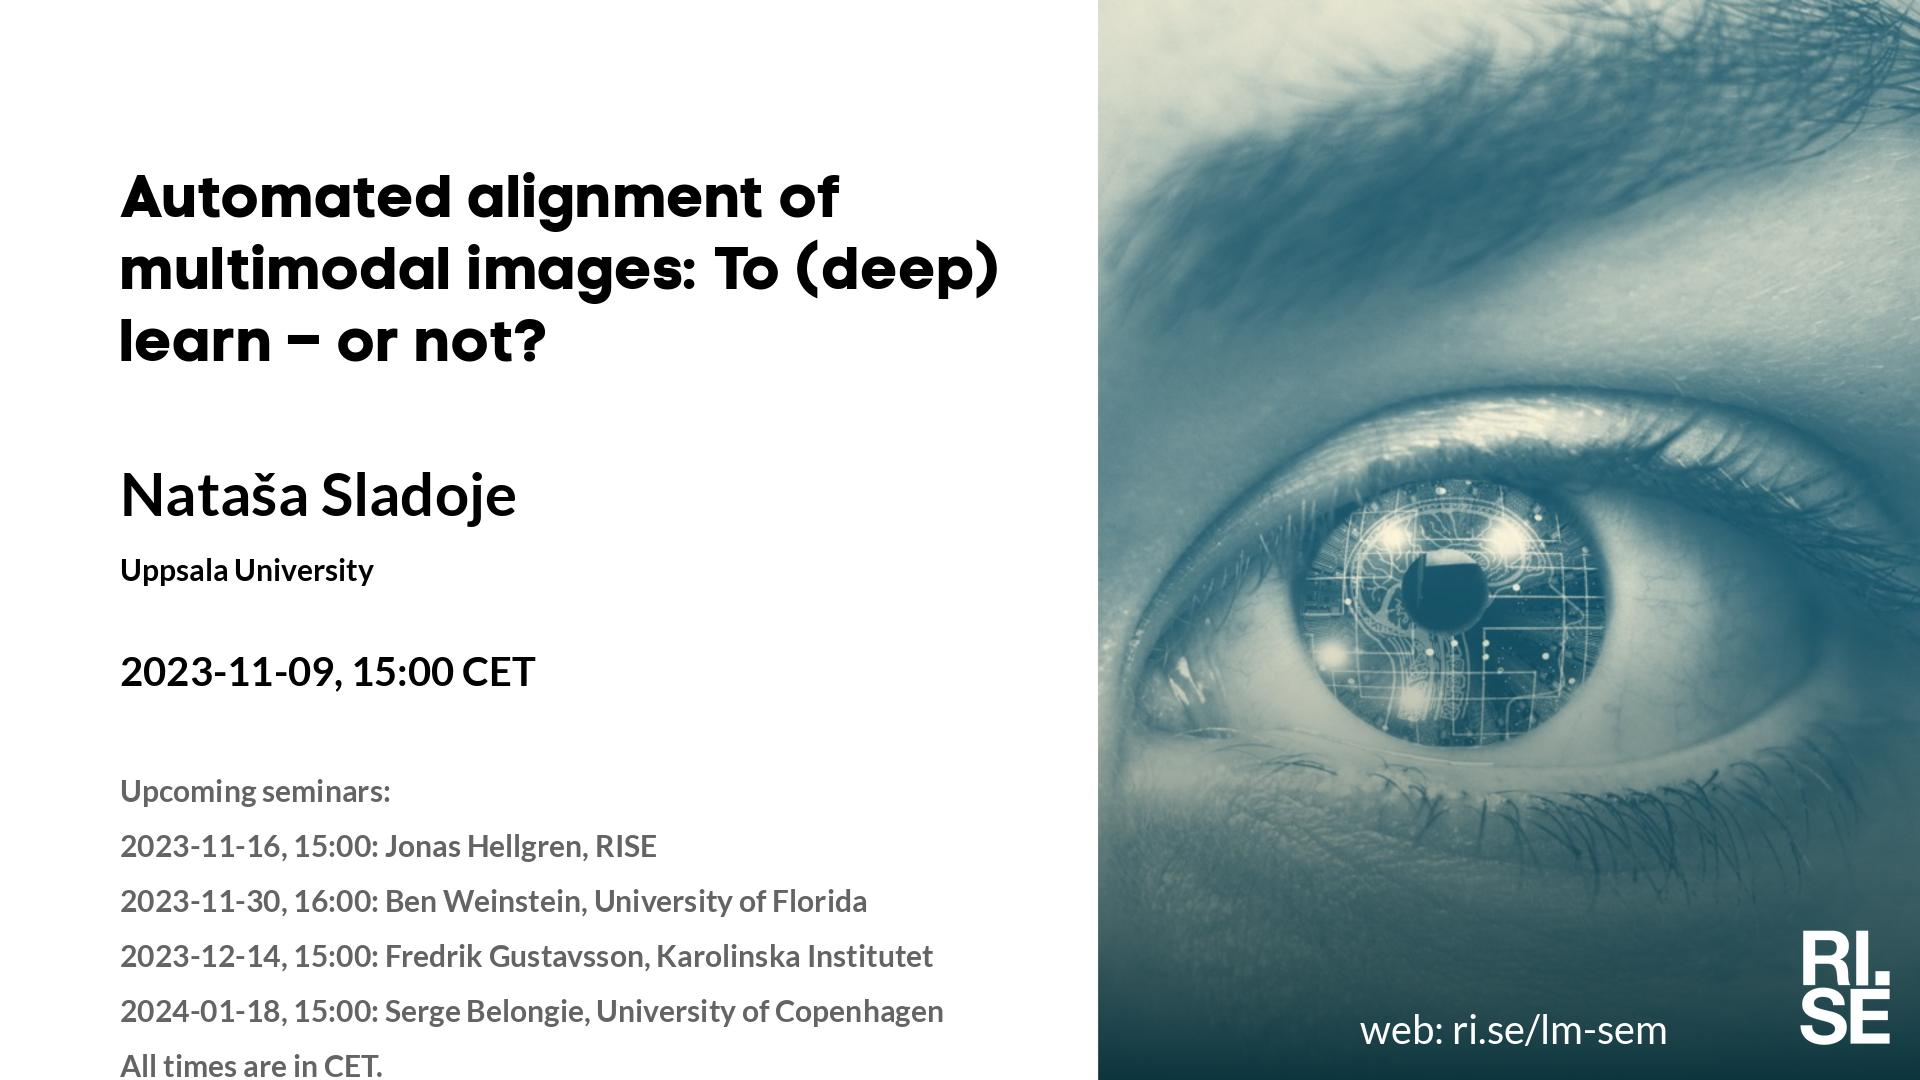
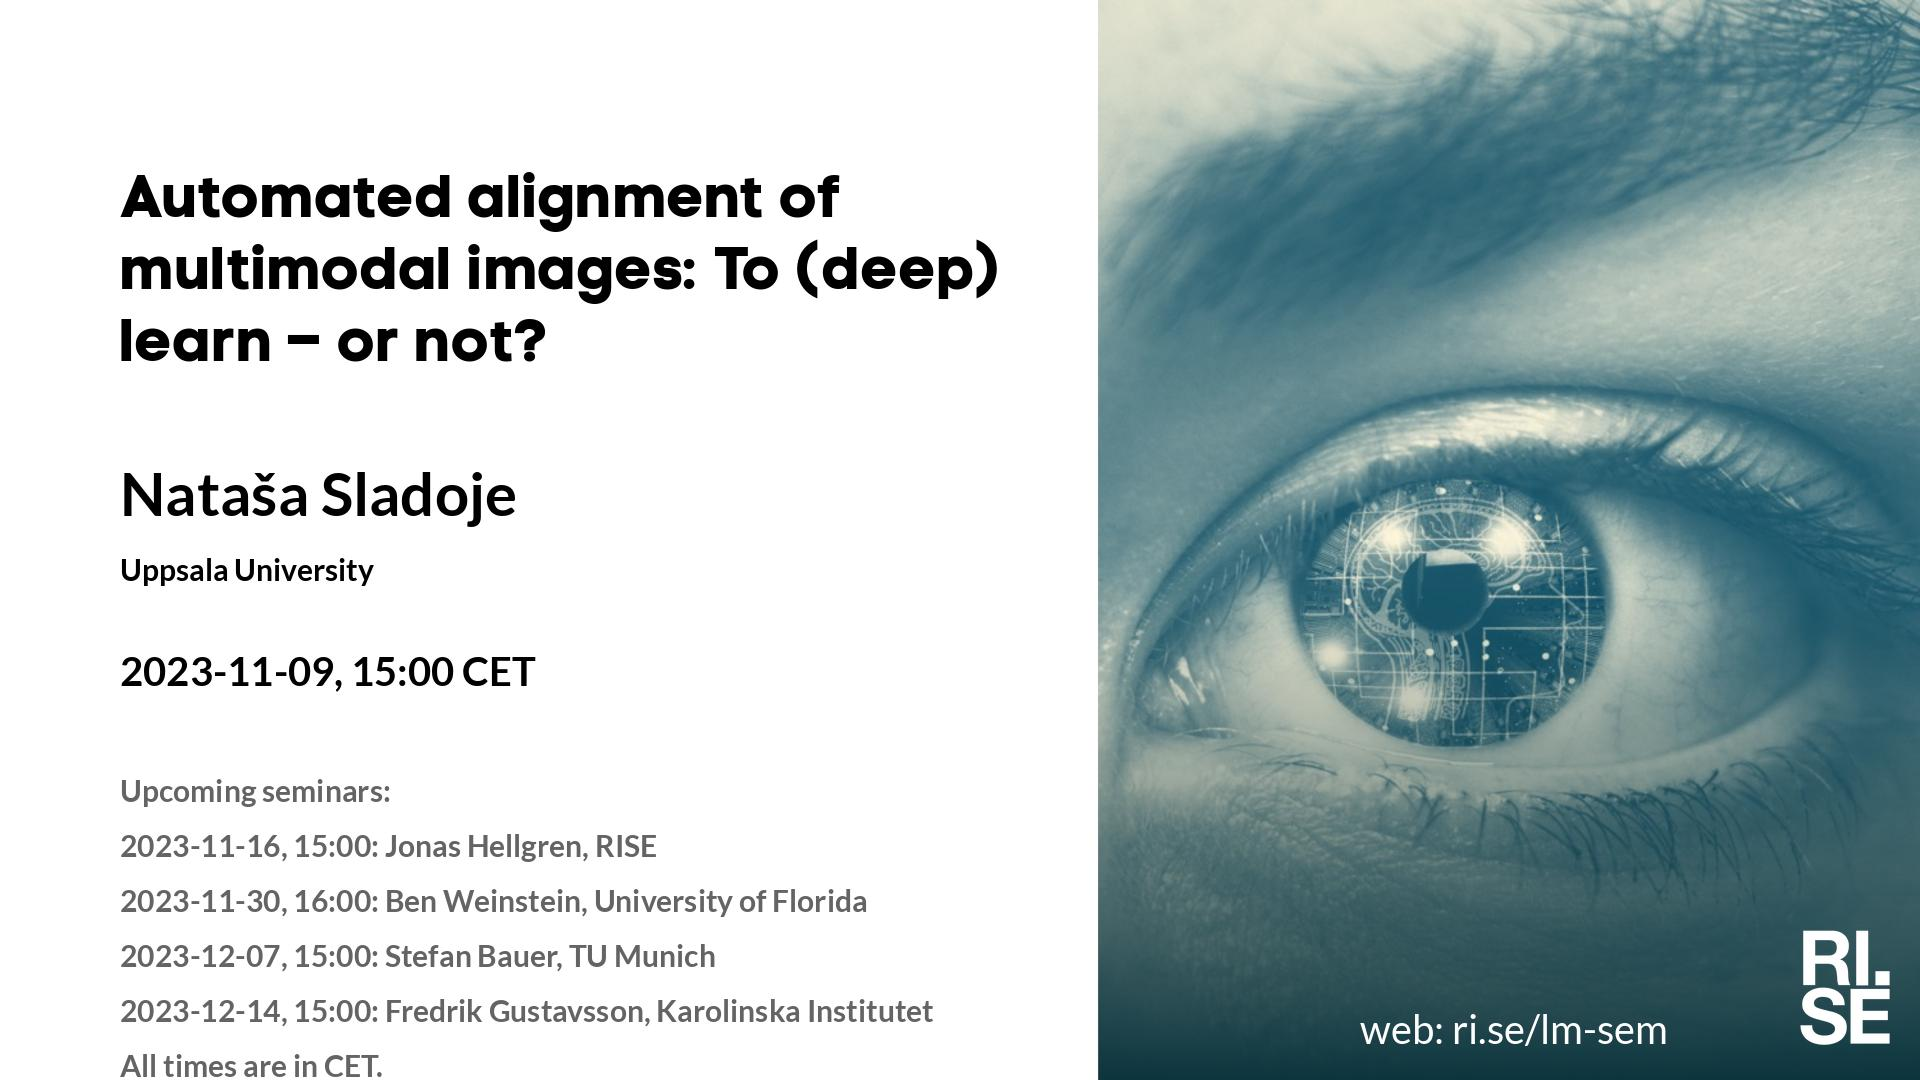
Updated plan on web site.

Changed region(s): [[0.1875, 0.8556, 0.5, 0.9472], [0.0938, 0.8556, 0.1562, 0.9472]]

diff --git a/lm/index.md b/lm/index.md
@@ -13,7 +13,7 @@ table {border-collapse: collapse;}
 | <span style="color:purple"> 2023-10-26 </span> | <span style="color:purple"> *Up for grabs!!!* </span> | <span style="color:purple">  </span> | <span style="color:purple">  </span> | <span style="color:purple">  </span> | <span style="color:purple">  </span> | <span style="color:purple"> ~~STABP~~ </span> |
 |  2023-11-02  |  [Priya Donti, MIT and Climate Change AI](2023-11-02.md)  |  [photo](photo-priya-donti.jpg)  |  [social media ](social-media-priya-donti.jpg)  |  [meeting backdrop ](meeting-backdrop-priya-donti.jpg)  |  [youtube thumbnail ](youtube-thumbnail-priya-donti.jpg)  |  STABP  |
 |  2023-11-09  |  [Nataša Sladoje, Uppsala University](2023-11-09.md)  |  [photo](photo-natasa-sladoje.jpg)  |  [social media ](social-media-natasa-sladoje.jpg)  |  [meeting backdrop ](meeting-backdrop-natasa-sladoje.jpg)  |  [youtube thumbnail ](youtube-thumbnail-natasa-sladoje.jpg)  |  STABP  |
-|  2023-11-16  |  [Jonas Hellgren, RISE](2023-11-16.md)  |  [photo](photo-jonas-hellgren.jpg)  |  [social media ](social-media-jonas-hellgren.jpg)  |  [meeting backdrop ](meeting-backdrop-jonas-hellgren.jpg)  |  [youtube thumbnail ](youtube-thumbnail-jonas-hellgren.jpg)  |  STA~~B~~P  |
+|  2023-11-16  |  [Jonas Hellgren, RISE](2023-11-16.md)  |  [photo](photo-jonas-hellgren.jpg)  |  [social media ](social-media-jonas-hellgren.jpg)  |  [meeting backdrop ](meeting-backdrop-jonas-hellgren.jpg)  |  [youtube thumbnail ](youtube-thumbnail-jonas-hellgren.jpg)  |  STABP  |
 | <span style="color:red"> 2023-11-23 </span> | <span style="color:red"> Thanksgiving </span> | <span style="color:red">  </span> | <span style="color:red">  </span> | <span style="color:red">  </span> | <span style="color:red">  </span> | <span style="color:red"> CANCELLED </span> |
 |  2023-11-30  |  [Ben Weinstein, University of Florida](2023-11-30.md)  |  [photo](photo-ben-weinstein.jpg)  |  [social media ](social-media-ben-weinstein.jpg)  |  [meeting backdrop ](meeting-backdrop-ben-weinstein.jpg)  |  [youtube thumbnail ](youtube-thumbnail-ben-weinstein.jpg)  |  STABP  |
 |  2023-12-07  |  [Stefan Bauer, TU Munich](2023-12-07.md)  |  [photo](photo-stefan-bauer.jpg)  |  [social media ](social-media-stefan-bauer.jpg)  |  [meeting backdrop ](meeting-backdrop-stefan-bauer.jpg)  |  [youtube thumbnail ](youtube-thumbnail-stefan-bauer.jpg)  |  STABP  |

diff --git a/lm/2023-11-16.md b/lm/2023-11-16.md
@@ -14,7 +14,7 @@ The talk will cover the following concepts: Markov Decision Processes serve as t
 
 The following algorithms will be presented presented: Dynamic programming. Temporal Difference Learning: TD learning algorithms, such as Q-Learning and SARSA. Deep Q-Networks (DQN): Combining deep neural networks with Q-Learning enables the handling of complex, high-dimensional state spaces and has led to groundbreaking results in game playing and robotics. Policy-gradient methods.
 
-**About the speaker:** N/A
+**About the speaker:** Jonas Hellgren completed his PhD studies at Chalmers in 2004, where he acquired skills in mathematical simulation, optimization, and control theory. Subsequently, he applied these skills in the design of hybrid and electric vehicles for various OEMs. In 2016, he ventured into the field of reinforcement learning. Alongside his studies, he has also supervised around 10 master's students, guiding them in the application of reinforcement learning. In 2021, he received the prestigious Volvo Group Inventor Award, which recognized his contributions to a patent involving the use of reinforcement learning for coordinating multiple autonomous vehicles.
 
 **Location:** This is an online seminar. Connect using Zoom.
 

diff --git a/lm/2023-11-09.md b/lm/2023-11-09.md
@@ -26,8 +26,8 @@ Nataša obtained her PhD degree in computerized image processing at the Centre f
 
 * 2023-11-16, 15:00: Jonas Hellgren, RISE
 * 2023-11-30, 16:00: Ben Weinstein, University of Florida
+* 2023-12-07, 15:00: Stefan Bauer, TU Munich
 * 2023-12-14, 15:00: Fredrik Gustavsson, Karolinska Institutet
-* 2024-01-18, 15:00: Serge Belongie, University of Copenhagen
 * All times are in CET.
 
 More information and coming seminars: [https://ri.se/lm-sem](https://ri.se/lm-sem)

diff --git a/lm/2023-11-02.md b/lm/2023-11-02.md
@@ -23,7 +23,7 @@ Welcome to this week's Learning Machines seminar.
 * 2023-11-09, 15:00: Nataša Sladoje, Uppsala University
 * 2023-11-16, 15:00: Jonas Hellgren, RISE
 * 2023-11-30, 16:00: Ben Weinstein, University of Florida
-* 2023-12-14, 15:00: Fredrik Gustavsson, Karolinska Institutet
+* 2023-12-07, 15:00: Stefan Bauer, TU Munich
 * All times are in CET.
 
 More information and coming seminars: [https://ri.se/lm-sem](https://ri.se/lm-sem)
